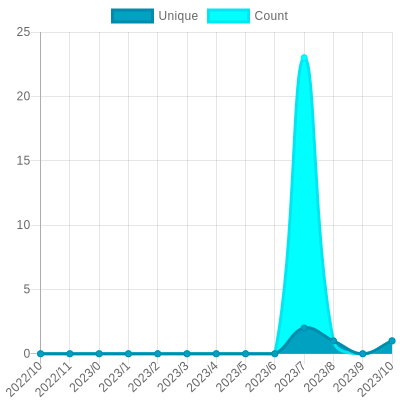
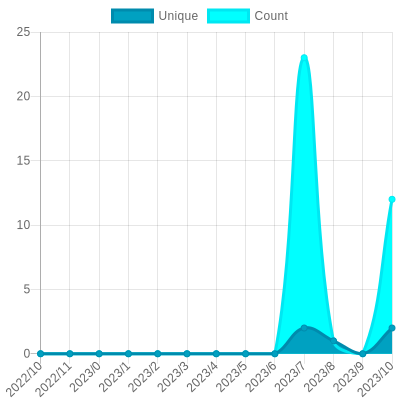
Update views

Changed region(s): [[0.84, 0.48, 0.99, 0.9]]

diff --git a/readme/521479261/year.md b/readme/521479261/year.md
@@ -23,10 +23,10 @@
 			<code>2022/11/1</code>
 		</td>
 		<td>
-			<code>1</code>
+			<code>2</code>
 		</td>
 		<td>
-			<code>1</code>
+			<code>12</code>
 		</td>
 	</tr>
 	<tr>
@@ -164,7 +164,7 @@
 </table>
 
 </details>
-<small><i>Last updated on 2022/11/7 12:32 AM UTC</i></small>
+<small><i>Last updated on 2022/11/7 6:08 AM UTC</i></small>
 
 ## ✂Copy and 📋 Paste
 ### SVG Badge

diff --git a/README.md b/README.md
@@ -37,7 +37,7 @@ The project created and maintained by [gayanvoice](https://github.com/gayanvoice
 	</tr>
 </table>
 
-<small><i>Last updated on 2022/11/7 12:32 AM UTC</i></small>
+<small><i>Last updated on 2022/11/7 6:08 AM UTC</i></small>
 
 ## ✂Copy and 📋 Paste
 ### Total Views Badge
